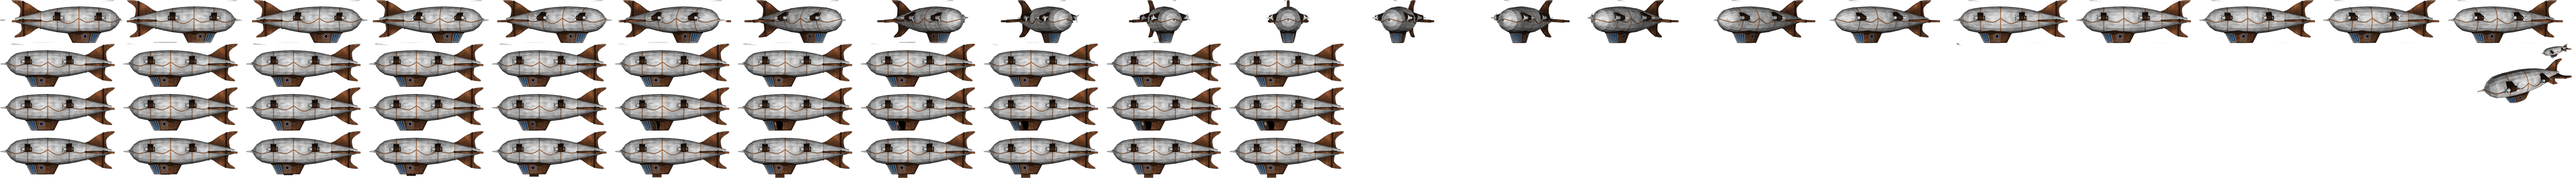
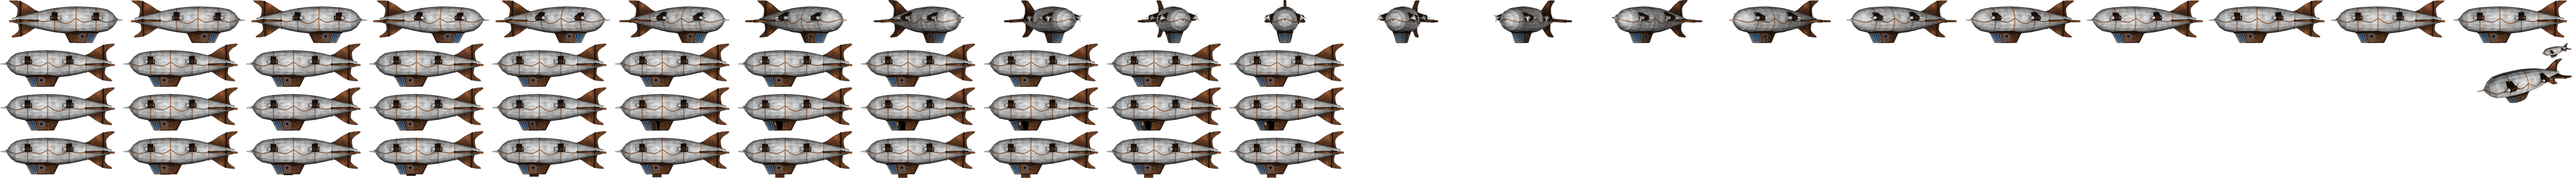
+ StringTbl in Enterhaken und Lasso ! Entrance im Bombenschiff ! Grafik vom Bombenschiff
git-svn-id: http://opensvn.csie.org/Luftherrschaft@162 417ea86b-d6b9-46eb-afa4-e379d024af20

Changed region(s): [[0.156, 0.0, 0.9983, 0.2619], [0.0, 0.0, 0.1248, 0.2619], [0.1248, 0.1746, 0.1872, 0.2328]]

diff --git a/Luftherrschaft.c4d/Items.c4d/Craft.c4d/Lasso.c4d/Script.c b/Luftherrschaft.c4d/Items.c4d/Craft.c4d/Lasso.c4d/Script.c
@@ -23,6 +23,7 @@ func Departure(object pObj, int iAltXDir, int iAltYDir) {
 /* Steuerung */
 
 func ControlDigDouble(object pClonk) {
+  [$TxtChangeStrength$]
   strength += 10;
   if(strength > 140) strength = 40;
   Message("$Strength$",pClonk,strength);

diff --git a/Luftherrschaft.c4d/Items.c4d/Craft.c4d/Hook.c4d/Script.c b/Luftherrschaft.c4d/Items.c4d/Craft.c4d/Hook.c4d/Script.c
@@ -41,6 +41,7 @@ public func Entrance(object pContainer) {
 }
 
 public func ControlThrow(object pClonk) {
+  [$TxtThrow$]
   var iXDir;
   var iYDir;
   if(GetProcedure(pClonk) == "FLIGHT") {

diff --git a/Luftherrschaft.c4d/Vehicles.c4d/BombingShip.c4d/Script.c b/Luftherrschaft.c4d/Vehicles.c4d/BombingShip.c4d/Script.c
@@ -211,6 +211,7 @@ private func ClearCommand() { SetCommand(this,"!=No"); }
 protected func Initialize()
 {
   turn_end_dir = -1;
+  SetEntrance(1);
   FloatIdleDown();
 }
 
